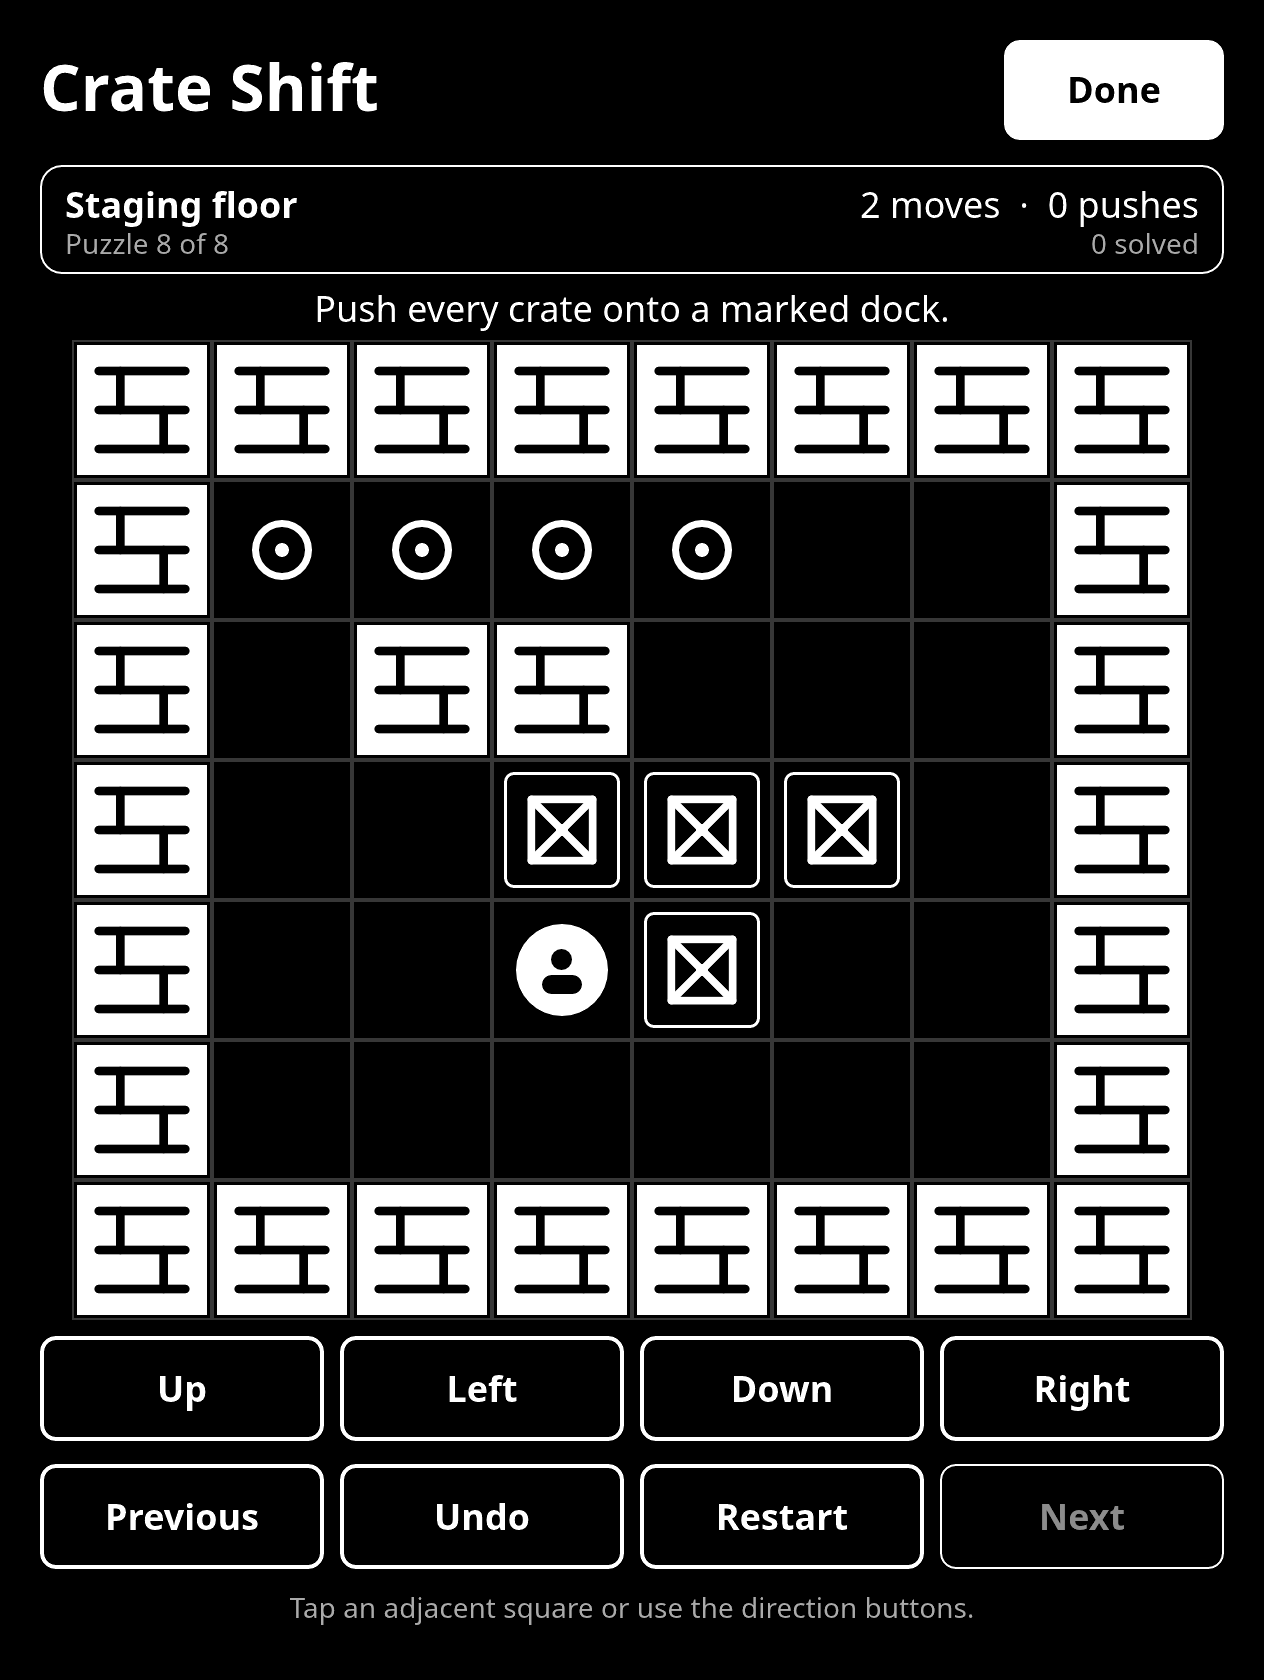
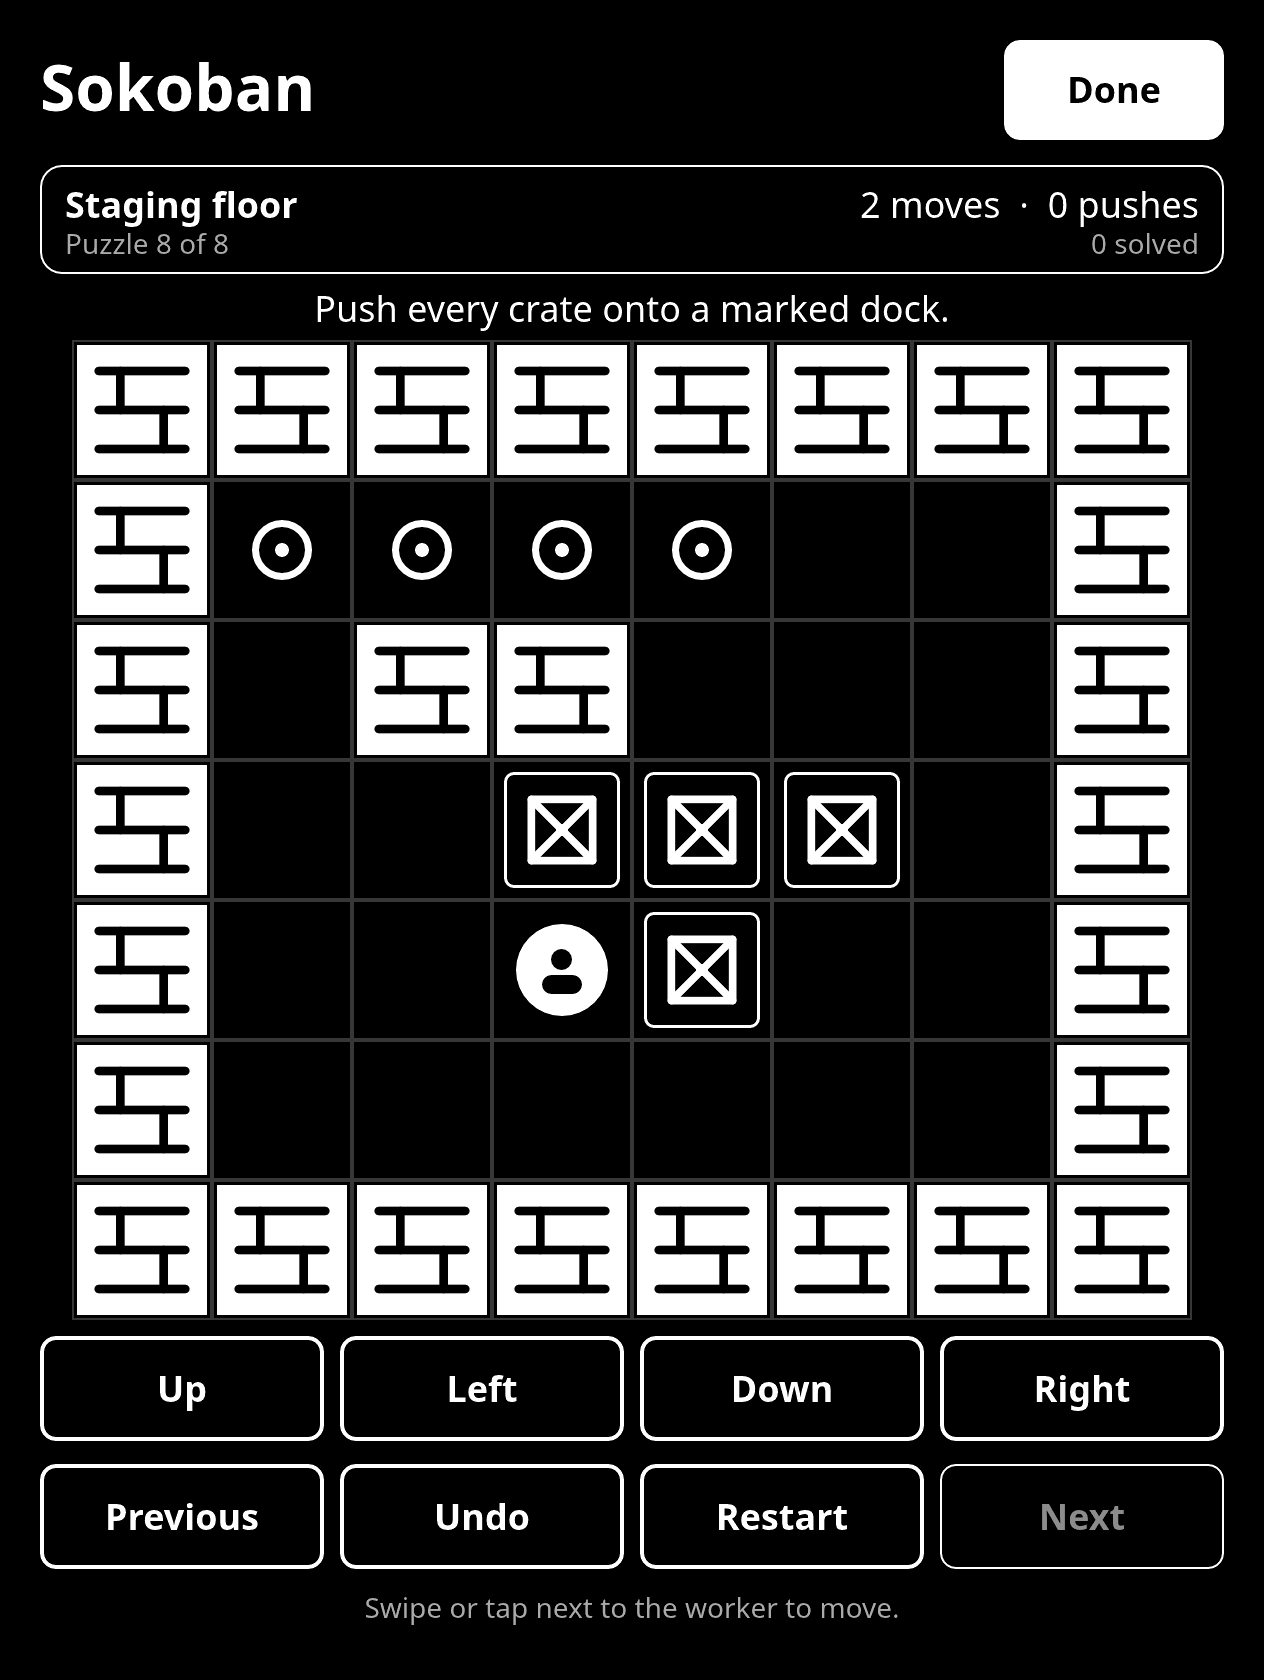
Name the box puzzle Sokoban and support swipes

diff --git a/crates/crateshift-render/src/lib.rs b/crates/crateshift-render/src/lib.rs
@@ -67,6 +67,28 @@ impl View {
         }
     }
 
+    fn swipe(&mut self, dx: f32, dy: f32, start_y: f32) -> Change {
+        let width = WIDTH as i32;
+        let top = board_cell(width, 0, 0).y as f32;
+        let bottom = board_cell(width, 0, ROWS - 1).bottom() as f32;
+        if !(top..bottom).contains(&start_y) || dx.abs().max(dy.abs()) < 40.0 {
+            return Change::None;
+        }
+
+        let direction = if dx.abs() > dy.abs() {
+            if dx > 0.0 {
+                Direction::Right
+            } else {
+                Direction::Left
+            }
+        } else if dy > 0.0 {
+            Direction::Down
+        } else {
+            Direction::Up
+        };
+        self.step(direction)
+    }
+
     fn select(&mut self, index: usize) -> Change {
         if self.game.select(index) {
             self.changed(Change::Full)
@@ -190,7 +212,7 @@ impl View {
 impl App for View {
     fn draw(&self, canvas: &mut Canvas) {
         let width = canvas.bounds().w;
-        header(canvas, "Crate Shift", "Done");
+        header(canvas, "Sokoban", "Done");
         let index = self.game.active();
         let puzzle = self.game.puzzle();
         canvas.card(screen_rect(width, 40, 165, 1184, 109));
@@ -252,7 +274,7 @@ impl App for View {
         let detail = self.notice.unwrap_or(if puzzle.complete() {
             "Pick another puzzle or undo your last move."
         } else {
-            "Tap an adjacent square or use the direction buttons."
+            "Swipe or tap next to the worker to move."
         });
         canvas.text(
             screen_rect(width, 40, 1590, 1184, 70),
@@ -267,6 +289,9 @@ impl App for View {
     fn input(&mut self, input: Input) -> Change {
         match input {
             Input::Tap(x, y) => self.tap(x, y),
+            Input::Swipe { dx, dy, start_y } if !self.confirming_reset => {
+                self.swipe(dx, dy, start_y)
+            }
             Input::PageBack if self.confirming_reset => {
                 self.confirming_reset = false;
                 Change::Full
@@ -334,4 +359,37 @@ pub fn draw_icon(canvas: &mut Canvas) {
     canvas.icon(Rect::new(78, 62, 100, 100), CRATE, PAPER);
     canvas.fill(Rect::new(61, 190, 22, 16), BLACK);
     canvas.fill(Rect::new(173, 190, 22, 16), BLACK);
+}
+
+#[cfg(test)]
+mod tests {
+    use super::*;
+
+    fn swipe(dx: f32, dy: f32, start_y: f32) -> Input {
+        Input::Swipe { dx, dy, start_y }
+    }
+
+    #[test]
+    fn board_swipes_use_the_dominant_axis_with_vertical_ties() {
+        let mut app = View::preview();
+        assert_eq!(app.game.puzzle().worker(), (2, 4));
+        assert_eq!(app.input(swipe(90.0, 65.0, 830.0)), Change::Partial);
+        assert_eq!(app.game.puzzle().worker(), (3, 4));
+        assert_eq!(app.input(swipe(-80.0, -80.0, 830.0)), Change::Partial);
+        assert_eq!(app.game.puzzle().worker(), (3, 3));
+        assert_eq!(app.game.puzzle().moves(), 2);
+    }
+
+    #[test]
+    fn short_off_board_and_modal_swipes_leave_the_worker_in_place() {
+        let mut app = View::preview();
+        assert_eq!(app.input(swipe(25.0, -20.0, 830.0)), Change::None);
+        assert_eq!(app.input(swipe(90.0, 65.0, 200.0)), Change::None);
+        assert_eq!(app.input(swipe(90.0, 65.0, 1450.0)), Change::None);
+        assert_eq!(app.input(swipe(90.0, 65.0, 830.0)), Change::Partial);
+        assert_eq!(app.input(Input::Tap(790.0, 1500.0)), Change::Full);
+        assert_eq!(app.input(swipe(90.0, 65.0, 830.0)), Change::None);
+        assert_eq!(app.game.puzzle().worker(), (3, 4));
+        assert_eq!(app.game.puzzle().moves(), 1);
+    }
 }

diff --git a/crates/crateshift-desktop/src/main.rs b/crates/crateshift-desktop/src/main.rs
@@ -30,9 +30,15 @@ fn main() -> Result<(), Box<dyn std::error::Error>> {
         &frame(&app, &mut canvas, false),
     )?;
 
-    for _ in 0..2 {
-        assert_eq!(app.input(Input::Tap(1050.0, 1374.0)), Change::Partial);
-    }
+    assert_eq!(
+        app.input(Input::Swipe {
+            dx: 170.0,
+            dy: 30.0,
+            start_y: 954.0
+        }),
+        Change::Partial
+    );
+    assert_eq!(app.input(Input::Tap(1050.0, 1374.0)), Change::Partial);
     assert_eq!(app.input(Input::Tap(210.0, 1374.0)), Change::Partial);
     assert!(app.game.puzzle().complete());
     assert_eq!(app.input(Input::Tap(460.0, 1500.0)), Change::Partial);

diff --git a/README.md b/README.md
@@ -1,6 +1,6 @@
-# Crate Shift
+# Sokoban
 
-Crate Shift is an offline warehouse puzzle for PrimitiveOS. Move the worker through eight original layouts and push every crate onto a marked dock.
+Sokoban is an offline warehouse puzzle for PrimitiveOS. Move the worker through eight original layouts and push every crate onto a marked dock.
 
 | First delivery | Staging floor in dark mode |
 | --- | --- |
@@ -8,14 +8,14 @@ Crate Shift is an offline warehouse puzzle for PrimitiveOS. Move the worker thro
 
 ## How to play
 
-- Tap a square next to the worker or use the direction buttons to move one square.
+- Swipe across the board, tap a square next to the worker, or use the direction buttons to move one square.
 - Walk into a crate to push it. The square behind it must be free.
 - Use **Undo** to take back a move, including after you solve a puzzle.
 - Use **Previous** and **Next** to choose a puzzle. The game saves your position and undo history for every layout.
 
 ## Install and preview
 
-Open **Store** from Primitive Launcher and search for **Crate Shift**. See the [installation guide](INSTALL.md) for package details.
+Open **Store** from Primitive Launcher and search for **Sokoban**. See the [installation guide](INSTALL.md) for package details.
 
 Keep the shared Tools and Launcher repositories alongside this app to render the preview locally.
 

diff --git a/INSTALL.md b/INSTALL.md
@@ -1,8 +1,8 @@
-# Install Crate Shift
+# Install Sokoban
 
 1. Open **Store** from Primitive Launcher.
-2. Search for **Crate Shift** and tap **Get**.
-3. Open **Crate Shift** from the Launcher home screen.
+2. Search for **Sokoban** and tap **Get**.
+3. Open **Sokoban** from the Launcher home screen.
 
 Development builds can be installed by USB on an ARMHF Kindle running firmware 5.16.3 or newer. Check the release ZIP
 against its SHA-256 file, then extract it. Copy the `crateshift/` payload folder to the Kindle drive root and

diff --git a/CHANGELOG.md b/CHANGELOG.md
@@ -1,5 +1,10 @@
 # Changelog
 
+## 0.1.1
+
+- Use the Sokoban title for the original warehouse puzzles.
+- Swipe across the board to move one square.
+
 ## 0.1.0
 
 - First release of Crate Shift for PrimitiveOS.
